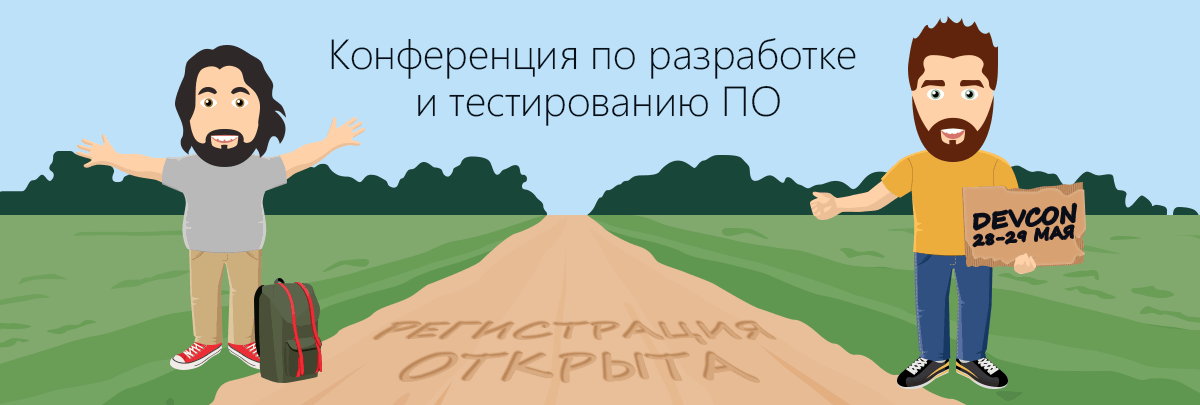
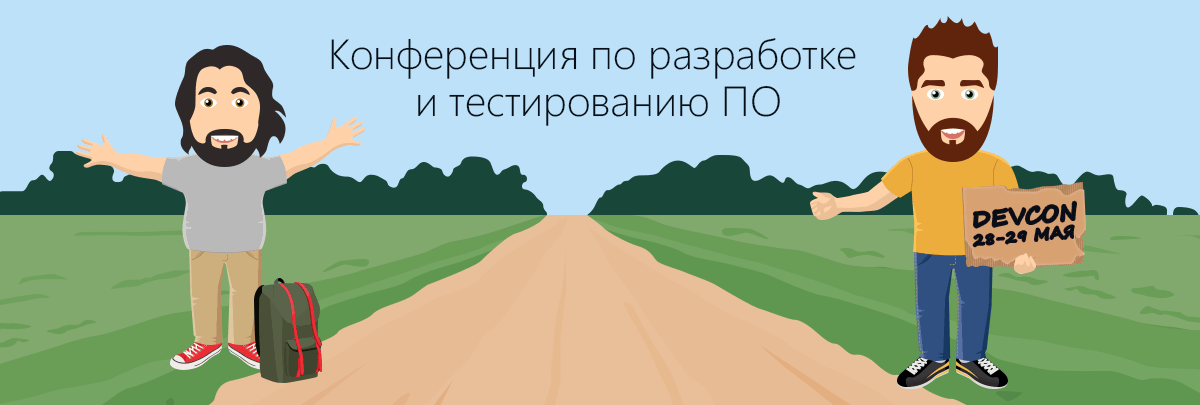
Локализация платежной страницы devcon

Changed region(s): [[0.3083, 0.7704, 0.6475, 0.9481], [0.8017, 0.5037, 0.8942, 0.5926], [0.6167, 0.9185, 0.6475, 0.9481]]

diff --git a/protected/modules/event/widgets/header/views/custom/en/devcon14.php b/protected/modules/event/widgets/header/views/custom/en/devcon14.php
@@ -1,0 +1,17 @@
+<?php
+/**
+ * @var $this \event\widgets\Header
+ */
+$event = $this->event;
+?>
+<?if (\Yii::app()->getController()->getModule()->getId() == 'pay'):?>
+  <style type="text/css">
+    header#header {
+      display: none;
+    }
+  </style>
+<?endif;?>
+
+<div class="b-event-promo" style="background: #ffffff;">
+  <a href="http://www.msdevcon.ru/register/" target="_blank"><img src="/img/event/devcon14/bg-en.png" border="0" /></a>
+</div>
